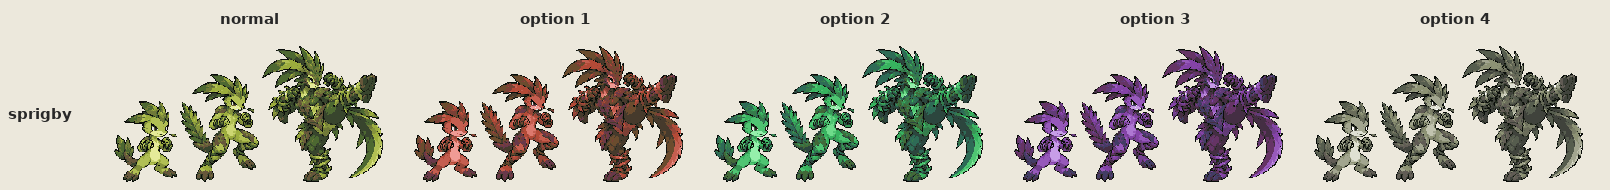
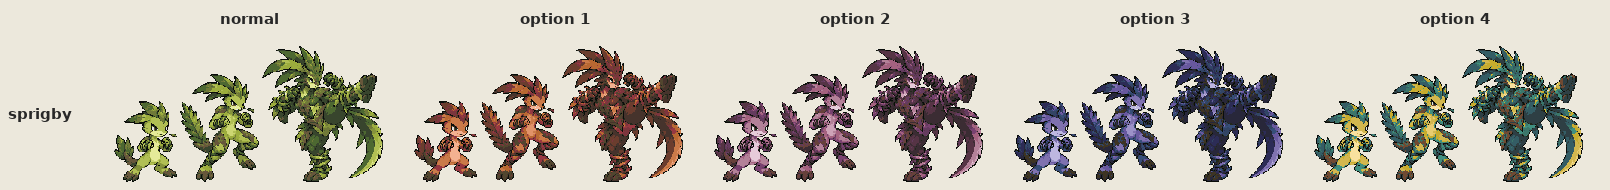
Shinies can be two or three tones (colour groups); four two-tone Sprigby options
Claude-Session: https://claude.ai/code/session_017dBWVrfL9iWDN6K8EV6hvW

diff --git a/game/src/engine/variants.ts b/game/src/engine/variants.ts
@@ -19,8 +19,13 @@ export function rollVariant(rng: Rng): Variant | undefined {
   return undefined;
 }
 
-/** A colour shift: hue turned by `hue` degrees, saturation and lightness scaled; `keep` colours (eyes, outlines) stay. */
-export interface Recolor { hue?: number; sat?: number; light?: number; keep?: string[] }
+/**
+ * A colour shift: hue turned by `hue` degrees, saturation and lightness scaled; `keep` colours
+ * (eyes, outlines) stay. `groups`: colours that take their own shift (a shiny in two or three
+ * tones: body, leaves, bark), the rest take the top-level one.
+ */
+export interface Shift { hue?: number; sat?: number; light?: number }
+export interface Recolor extends Shift { keep?: string[]; groups?: (Shift & { colours: string[] })[] }
 interface ShinyLine { options: Recolor[]; pick: number }
 /** The Prototype colourway: stone (hue, saturation, lightness = base + l x scale) and the blue its accents turn. */
 export interface PrototypeLook { stone: { hue: number; sat: number; base: number; scale: number }; blue: { hue: number; sat: number }; accents: number; glow: string }
@@ -107,7 +112,10 @@ const hex = (c: string) => [1, 3, 5].map((i) => parseInt(c.slice(i, i + 2), 16))
 
 /** One colour through a shiny recolour (outlines, near-black and greys under 12% saturation stay put). */
 export function recolorPixel(r: number, g: number, b: number, rc: Recolor): [number, number, number] {
-  if (rc.keep?.some((k) => { const [kr, kg, kb] = hex(k); return Math.abs(kr - r) + Math.abs(kg - g) + Math.abs(kb - b) < 6; })) return [r, g, b];
+  const near = (k: string) => { const [kr, kg, kb] = hex(k); return Math.abs(kr - r) + Math.abs(kg - g) + Math.abs(kb - b) < 6; };
+  if (rc.keep?.some(near)) return [r, g, b];
+  const group = rc.groups?.find((gr) => gr.colours.some(near));
+  if (group) return recolorPixel(r, g, b, { hue: group.hue, sat: group.sat, light: group.light });
   let [h, s, l] = rgbToHsl(r, g, b);
   if (l < 0.17) return [r, g, b];
   if (s > 0.12) {

diff --git a/art/creatures/wip/ch1/palette_pitch.py b/art/creatures/wip/ch1/palette_pitch.py
@@ -17,6 +17,9 @@ def line(n):
         e = SP[out[-1]]['evolves']; out.append((e[0] if isinstance(e, list) else e)['to'])
     return out
 def shiny(px, o):
+    for gr in o.get('groups', []):   # two- or three-tone shinies: these colours take their own shift
+        if any(sum(abs(int(c[i:i + 2], 16) - px[k]) for k, i in enumerate((1, 3, 5))) < 6 for c in gr['colours']):
+            return shiny(px, gr)
     r, g, b = [v / 255 for v in px[:3]]
     h, l, s = colorsys.rgb_to_hls(r, g, b)
     if l < 0.17: return px
